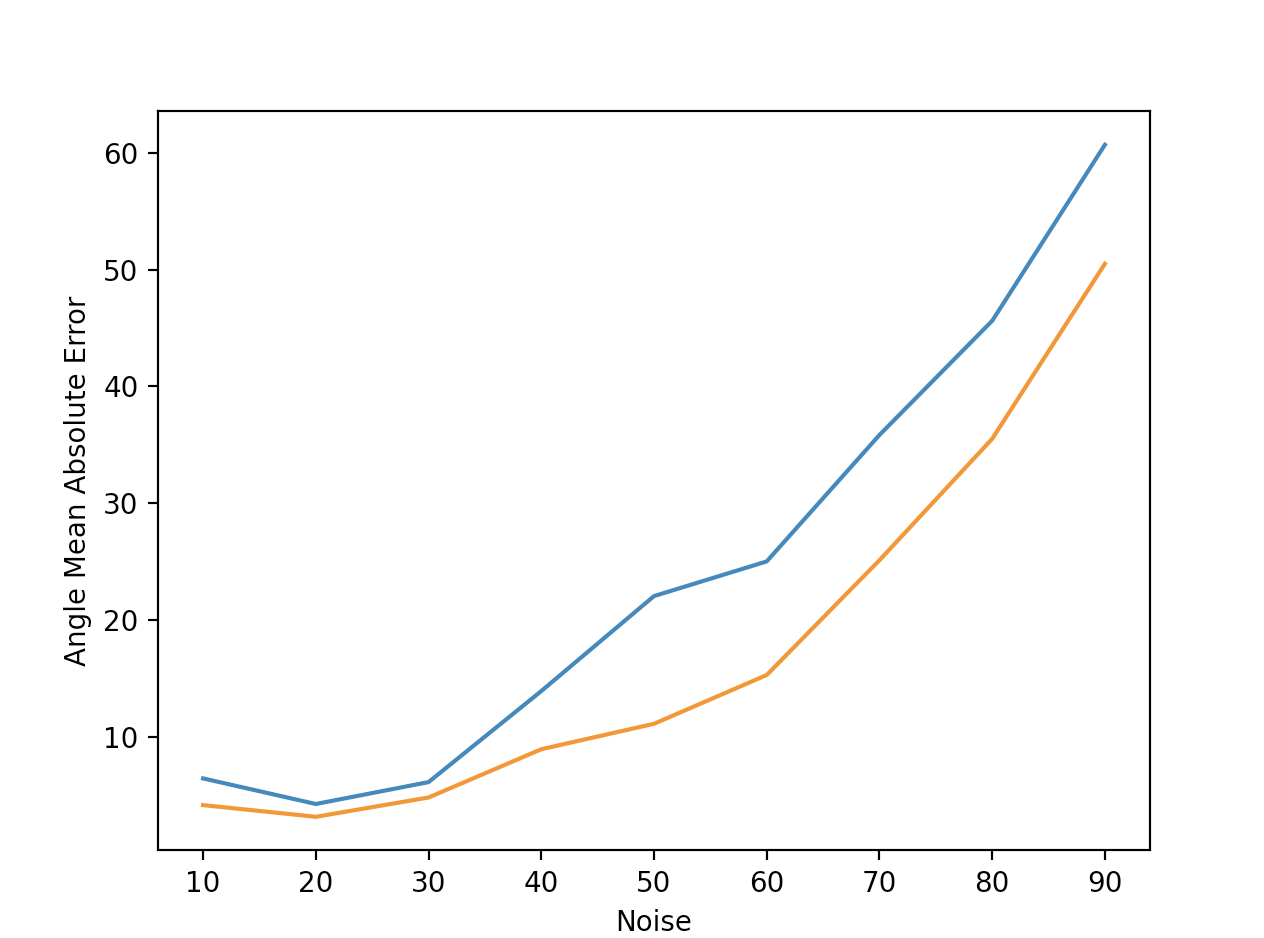
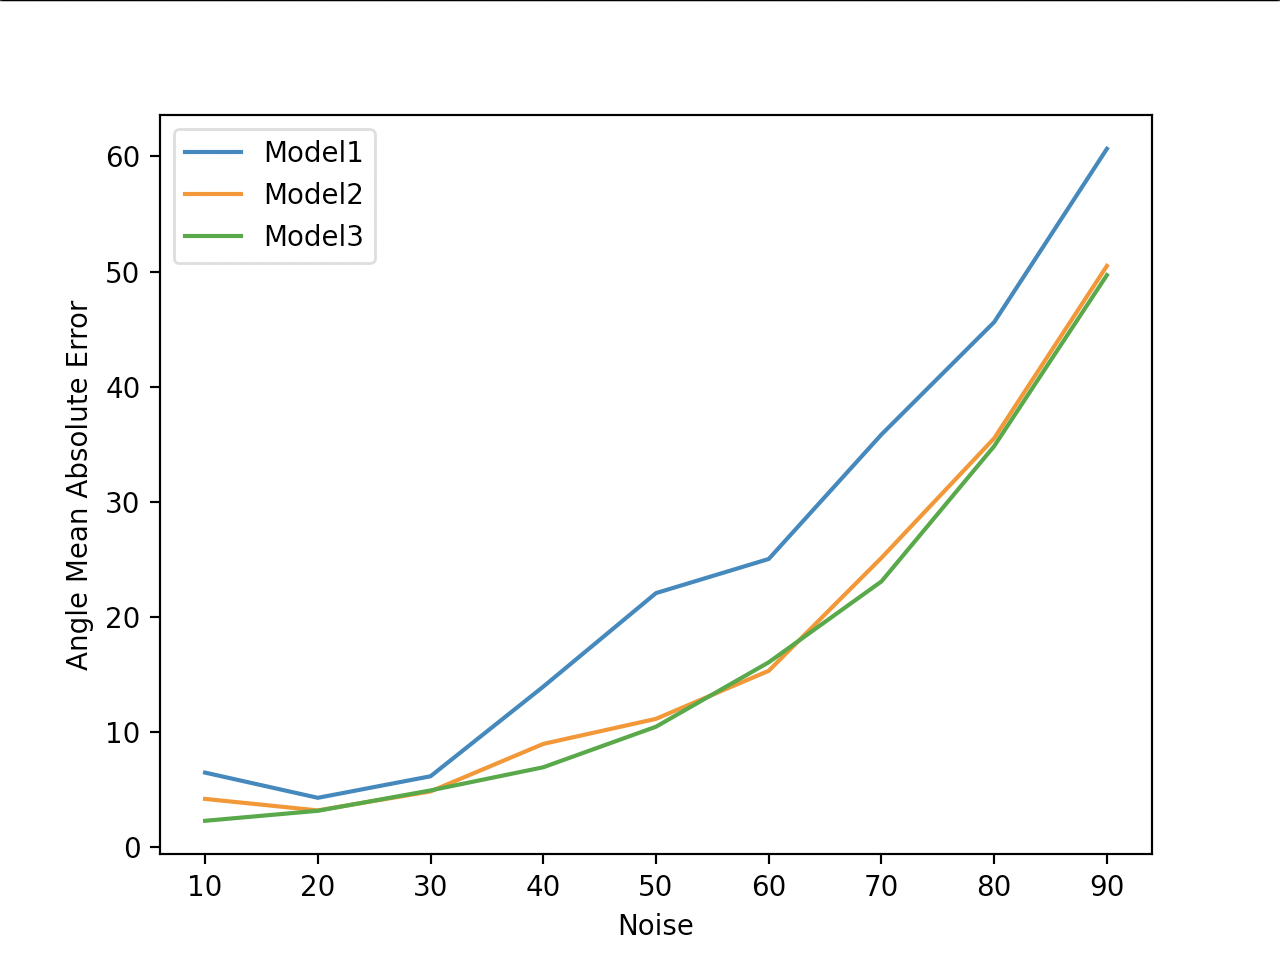
conv model..

diff --git a/NeuralNetwork.py b/NeuralNetwork.py
@@ -34,6 +34,38 @@ class Model2(tf.keras.Model):
         x = tf.keras.layers.Input(shape=((8,)));
         return tf.keras.Model(inputs=[x], outputs=self.call(x));
 
+class Model3(tf.keras.Model):
+    def __init__(self, hidden_nodes1, hidden_nodes2, hidden_nodes3):
+        super().__init__();
+        self.entry_reshape = tf.keras.layers.Reshape((8,1), input_shape=(8,));
+        self.conv1 = tf.keras.layers.Conv1D(filters=32, kernel_size=3, padding="same", activation='relu', input_shape=(8,1));
+        self.max_pool1 = tf.keras.layers.MaxPooling1D(2);
+        self.conv2 = tf.keras.layers.Conv1D(filters=64, kernel_size=3, padding="same", activation='relu');
+        self.max_pool2 = tf.keras.layers.MaxPooling1D(2);
+        self.conv3 = tf.keras.layers.Conv1D(filters=64, kernel_size=3, padding="same", activation='relu');
+        self.flat = tf.keras.layers.Flatten();
+        self.dense1 = tf.keras.layers.Dense(hidden_nodes1, input_shape=(8,), kernel_initializer='normal', activation='relu');
+        self.dense2 = tf.keras.layers.Dense(hidden_nodes2, kernel_initializer='normal', activation='relu');
+        self.dense3 = tf.keras.layers.Dense(hidden_nodes3, kernel_initializer='normal', activation='relu');
+        self.mouth = tf.keras.layers.Dense(1, kernel_initializer='normal', activation='linear');
+
+    def call(self, input):
+        layer = self.entry_reshape(input);
+        layer = self.conv1(layer);
+        layer = self.max_pool1(layer);
+        layer = self.conv2(layer);
+        layer = self.max_pool2(layer);
+        layer = self.conv3(layer);
+        layer = self.flat(layer);
+        layer = self.dense1(layer);
+        layer = self.dense2(layer);
+        layer = self.dense3(layer);
+        return self.mouth(layer);
+    
+    def build_graph(self):
+        x = tf.keras.layers.Input(shape=((8,)));
+        return tf.keras.Model(inputs=[x], outputs=self.call(x));
+
 def plot_model(model, file):
     tf.keras.utils.plot_model(
         model.build_graph(),

diff --git a/main.py b/main.py
@@ -13,14 +13,17 @@ def main():
 	vs.show_graph("Mean Squared Error", 
 		vs.get_metric_values(st.convert_metric("mse"),loaded_stats, "model1"),
 		vs.get_metric_values(st.convert_metric("mse"),loaded_stats, "model2"),
+		vs.get_metric_values(st.convert_metric("mse"),loaded_stats, "model3"),
 		st.get_noise_values());
 	vs.show_graph("Mean Absolute Error", 
 		vs.get_metric_values(st.convert_metric("mae"),loaded_stats, "model1"),
 		vs.get_metric_values(st.convert_metric("mae"),loaded_stats, "model2"),
+		vs.get_metric_values(st.convert_metric("mae"),loaded_stats, "model3"),
 		st.get_noise_values());
 	vs.show_graph("Angle Mean Absolute Error", 
 		vs.get_metric_values(st.convert_metric("amae"),loaded_stats, "model1"),
 		vs.get_metric_values(st.convert_metric("amae"),loaded_stats, "model2"),
+		vs.get_metric_values(st.convert_metric("amae"),loaded_stats, "model3"),
 		st.get_noise_values()); """
 
 	# ploting models
@@ -32,6 +35,11 @@ def main():
 	model2 = nn.Model2(128, 512, 256);
 	model2 = nn.compile_model(model2);
 	model2.fit(data.train_phases, data.train_labels, epochs=1);
-	nn.plot_model(model2, "model2.png"); """
+	nn.plot_model(model2, "model2.png");
+	data = dt.load_data(10);
+	model3 = nn.Model3(128, 512, 256);
+	model3 = nn.compile_model(model3);
+	model3.fit(data.train_phases, data.train_labels, epochs=1);
+	nn.plot_model(model3, "model3.png"); """
 
 main();

diff --git a/VisualStats.py b/VisualStats.py
@@ -23,10 +23,11 @@ model1_stats: array containing model1 stat values
 model2_stats: array containing model2 stat values
 noise_values: array containing all noise values [10..90]
 """
-def show_graph(metric, model1_stats, model2_stats, noise_values):
+def show_graph(metric, model1_stats, model2_stats, model3_stats, noise_values):
     plt.plot(noise_values, model1_stats, label="Model1");
     plt.plot(noise_values, model2_stats, label="Model2");
+    plt.plot(noise_values, model2_stats, label="Model3");
     plt.xlabel("Noise");
     plt.ylabel(metric);
-    #plt.legend();
+    plt.legend();
     plt.show();

diff --git a/Stats.py b/Stats.py
@@ -40,5 +40,6 @@ def get_stats():
 		data = dt.load_data(i);
 		mse1, mae1, amse1 = nn.eval_model(model1, data);
 		mse2, mae2, amse2 = nn.eval_model(model2, data);
-		computed_stats.append({"noise"+str(i):{"model1": [mse1, mae1, amse1], "model2": [mse2, mae2, amse2]}});
+		mse3, mae3, amse3 = nn.eval_model(model3, data);
+		computed_stats.append({"noise"+str(i):{"model1": [mse1, mae1, amse1], "model2": [mse2, mae2, amse2], "model3": [mse3, mae3, amse3]}});
 	return computed_stats;
